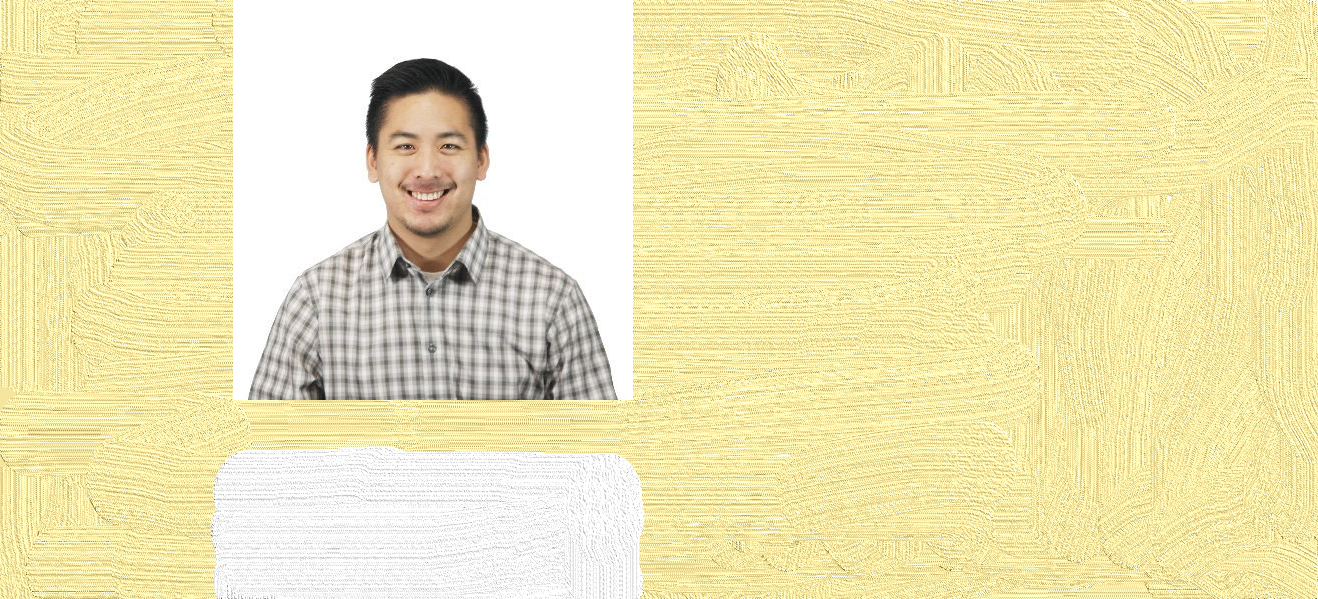
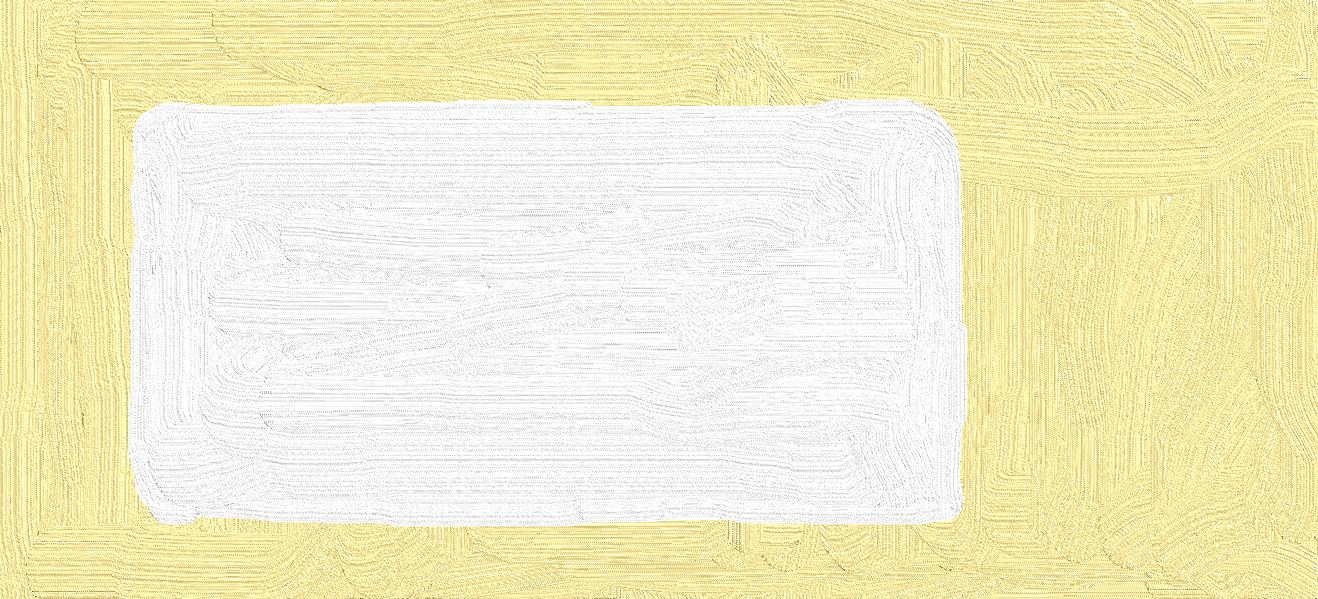
minor changes stuff

diff --git a/index.html b/index.html
@@ -96,13 +96,8 @@
                             <div class="col-xl-6 col-lg-6 col-md-8">
                                 <div class="hero__caption">
                                     <span data-animation="fadeInUp" data-delay=".4s">Hi! Welcome to the site of</span>
-                                    <div class="col-lg-6 col-md-6" id="picWidthAdjustment">
-                                        <div class="about-me-img mb-30">
-                                            <img class="profilePic" alt="">
-                                        </div>
-                                    </div>
                                     <h1 data-animation="fadeInUp" data-delay=".6s">Rob Liou</h1>
-                                    <P data-animation="fadeInUp" data-delay=".8s" >Full-stack developer and winner of an NEO EcoBoost incubation award for DDR Store. Passionate about the intersection of coding and real-world utility. Former energy strategy consultant and CPA.</P>
+                                    <P data-animation="fadeInUp" data-delay=".8s" >Full-stack developer and winner of an NEO EcoBoost incubation award for DDR Store. Passionate about the intersection of coding and real-world utility. </P>
                                     <!-- Hero-btn -->
                                     <div class="hero__btn">
                                         <a href="about.html" class="btn hero-btn"  data-animation="fadeInLeft" data-delay=".8s">About me</a>

diff --git a/assets/scss/style.css b/assets/scss/style.css
@@ -2834,11 +2834,7 @@ hr {
 @media (max-width: 575px) {
   .slider-height {
     min-height: 600px;
-    background-image: url();
-    
-  }
-  .slider-area .profilePic{
-    background-image: url(../img/hero/Headshot_RL.jpg)
+    background-image: url(../img/hero/Background_phone_scrawl.png);
   }
 }
 
